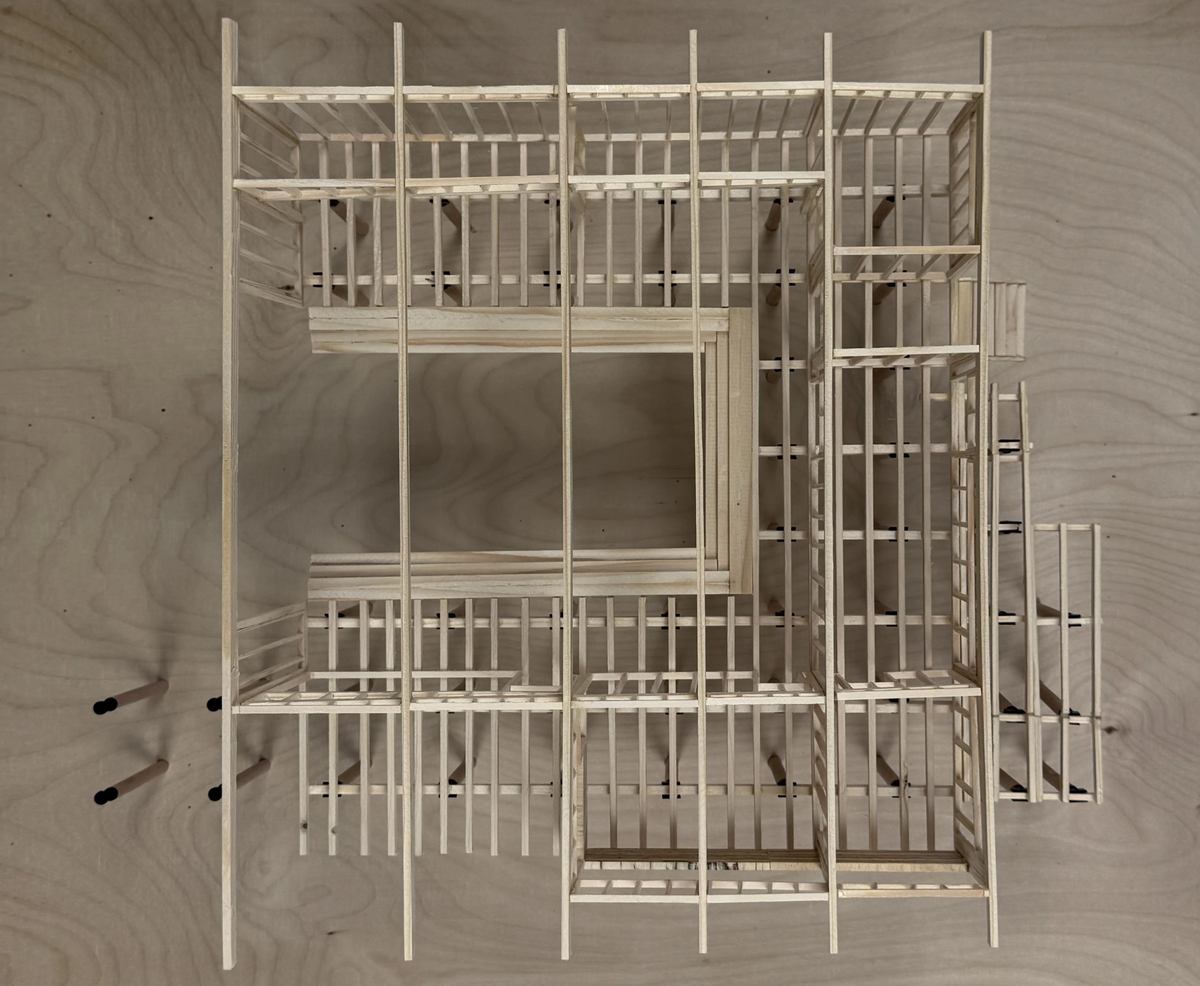
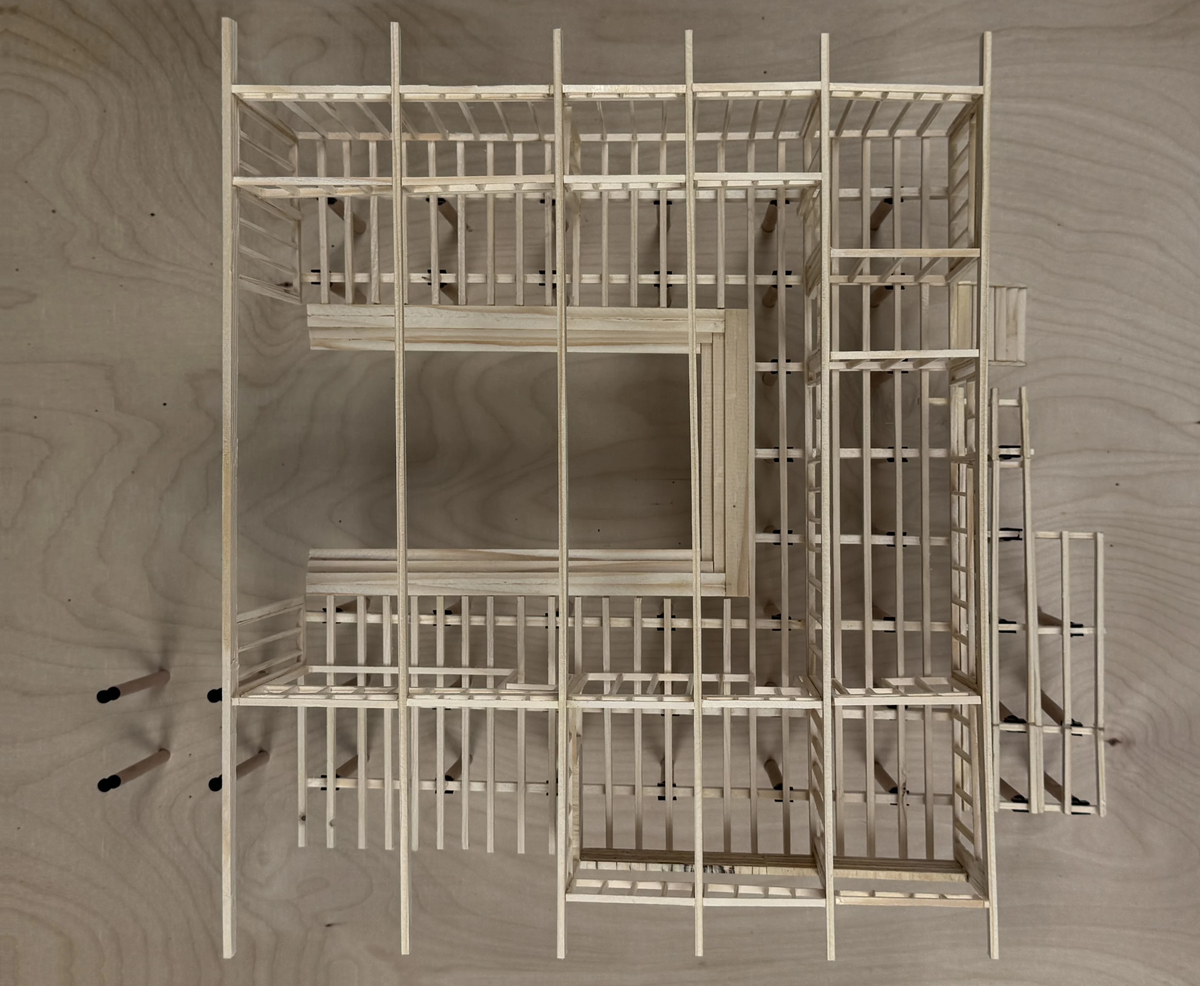
Lageplan gedreht, Modellfoto entzerrt, RomeRainRoom-Pläne aus dem Plakat, Profil angepasst

diff --git a/p/seepferdchen.html b/p/seepferdchen.html
@@ -6,7 +6,7 @@
 <title>Water Rescue Station “See Horse” · RISTL.DESIGNBUERO</title>
 <meta name="description" content="A timber rescue station on stilts, built to rise with the lake.">
 <link rel="icon" type="image/svg+xml" href="../favicon.svg">
-<link rel="stylesheet" href="../style.css?v=14">
+<link rel="stylesheet" href="../style.css?v=19">
 </head>
 <body>
 <header class="top">
@@ -24,37 +24,37 @@
   <p class="meta">Building construction, timber<br>with Franziska Grupe<br>2026</p>
 </section>
 <section class="images">
-<figure class="voll "><a class="zoom" href="../img/seepferdchen/cover-gross.webp"><img src="../img/seepferdchen/cover-1400.webp" srcset="../img/seepferdchen/cover-1400.webp 1400w, ../img/seepferdchen/cover-2800.webp 2800w" sizes="(max-width: 520px) 100vw, 86vw" width="1400" height="740" alt="Water Rescue Station “See Horse”" loading="eager" decoding="async"></a></figure>
+<figure class="voll "><a class="zoom" href="../img/seepferdchen/cover-gross.webp?v=19"><img src="../img/seepferdchen/cover-1400.webp?v=19" srcset="../img/seepferdchen/cover-1400.webp?v=19 1400w, ../img/seepferdchen/cover-2800.webp?v=19 2800w" sizes="(max-width: 520px) 100vw, 86vw" width="1400" height="740" alt="Water Rescue Station “See Horse”" loading="eager" decoding="async"></a></figure>
 </section>
 <section class="sek"><h2>Project</h2><div class="inhalt prosa"><p>The station stands in the shallow water on bored piles of reinforced concrete, so the floor stays dry when the lake rises. On top sits a glulam frame, closed with timber-frame walls.</p><p>The rooms form a U around the boat hall. Sliding doors connect the first-aid room to the hall and to the outside, barrier-free. Kitchenette and lounge open onto the terrace. The radio room looks out over the lido.</p><p>Outside, vertical cedar slats, charred (Shou Sugi Ban). Inside, the same rhythm in pale silver fir. Oak for the parquet, the terrace boards and the railings. The mono-pitch roof leaves its beams exposed.</p></div></section>
 <section class="sek"><h2>Visualisations</h2><div class="inhalt raster">
-<figure><a class="zoom" href="../img/seepferdchen/ost-gross.webp"><img src="../img/seepferdchen/ost-1400.webp" srcset="../img/seepferdchen/ost-1400.webp 1400w, ../img/seepferdchen/ost-2800.webp 2800w" sizes="(max-width: 520px) 100vw, (max-width: 900px) 46vw, 32vw" width="1400" height="665" alt="Water Rescue Station “See Horse”, visualisations, east elevation" loading="lazy" decoding="async"></a><figcaption>East elevation</figcaption></figure>
-<figure><a class="zoom" href="../img/seepferdchen/nord-gross.webp"><img src="../img/seepferdchen/nord-1400.webp" srcset="../img/seepferdchen/nord-1400.webp 1400w, ../img/seepferdchen/nord-2800.webp 2800w" sizes="(max-width: 520px) 100vw, (max-width: 900px) 46vw, 32vw" width="1400" height="665" alt="Water Rescue Station “See Horse”, visualisations, north elevation" loading="lazy" decoding="async"></a><figcaption>North elevation</figcaption></figure>
-<figure><a class="zoom" href="../img/seepferdchen/sued-gross.webp"><img src="../img/seepferdchen/sued-1400.webp" srcset="../img/seepferdchen/sued-1400.webp 1400w, ../img/seepferdchen/sued-2800.webp 2800w" sizes="(max-width: 520px) 100vw, (max-width: 900px) 46vw, 32vw" width="1400" height="665" alt="Water Rescue Station “See Horse”, visualisations, south elevation" loading="lazy" decoding="async"></a><figcaption>South elevation</figcaption></figure>
-<figure><a class="zoom" href="../img/seepferdchen/west-gross.webp"><img src="../img/seepferdchen/west-1400.webp" srcset="../img/seepferdchen/west-1400.webp 1400w, ../img/seepferdchen/west-2800.webp 2800w" sizes="(max-width: 520px) 100vw, (max-width: 900px) 46vw, 32vw" width="1400" height="665" alt="Water Rescue Station “See Horse”, visualisations, west elevation" loading="lazy" decoding="async"></a><figcaption>West elevation</figcaption></figure>
+<figure><a class="zoom" href="../img/seepferdchen/ost-gross.webp?v=19"><img src="../img/seepferdchen/ost-1400.webp?v=19" srcset="../img/seepferdchen/ost-1400.webp?v=19 1400w, ../img/seepferdchen/ost-2800.webp?v=19 2800w" sizes="(max-width: 520px) 100vw, (max-width: 900px) 46vw, 32vw" width="1400" height="665" alt="Water Rescue Station “See Horse”, visualisations, east elevation" loading="lazy" decoding="async"></a><figcaption>East elevation</figcaption></figure>
+<figure><a class="zoom" href="../img/seepferdchen/nord-gross.webp?v=19"><img src="../img/seepferdchen/nord-1400.webp?v=19" srcset="../img/seepferdchen/nord-1400.webp?v=19 1400w, ../img/seepferdchen/nord-2800.webp?v=19 2800w" sizes="(max-width: 520px) 100vw, (max-width: 900px) 46vw, 32vw" width="1400" height="665" alt="Water Rescue Station “See Horse”, visualisations, north elevation" loading="lazy" decoding="async"></a><figcaption>North elevation</figcaption></figure>
+<figure><a class="zoom" href="../img/seepferdchen/sued-gross.webp?v=19"><img src="../img/seepferdchen/sued-1400.webp?v=19" srcset="../img/seepferdchen/sued-1400.webp?v=19 1400w, ../img/seepferdchen/sued-2800.webp?v=19 2800w" sizes="(max-width: 520px) 100vw, (max-width: 900px) 46vw, 32vw" width="1400" height="665" alt="Water Rescue Station “See Horse”, visualisations, south elevation" loading="lazy" decoding="async"></a><figcaption>South elevation</figcaption></figure>
+<figure><a class="zoom" href="../img/seepferdchen/west-gross.webp?v=19"><img src="../img/seepferdchen/west-1400.webp?v=19" srcset="../img/seepferdchen/west-1400.webp?v=19 1400w, ../img/seepferdchen/west-2800.webp?v=19 2800w" sizes="(max-width: 520px) 100vw, (max-width: 900px) 46vw, 32vw" width="1400" height="665" alt="Water Rescue Station “See Horse”, visualisations, west elevation" loading="lazy" decoding="async"></a><figcaption>West elevation</figcaption></figure>
 </div></section>
 <section class="sek"><h2>Floor plans</h2><div class="inhalt raster massstab">
-<figure><a class="zoom" href="../img/seepferdchen/lageplan-gross.webp"><img src="../img/seepferdchen/lageplan-1400.webp" srcset="../img/seepferdchen/lageplan-1400.webp 1400w, ../img/seepferdchen/lageplan-2800.webp 2800w" sizes="(max-width: 520px) 100vw, (max-width: 900px) 46vw, 32vw" width="1400" height="957" alt="Water Rescue Station “See Horse”, floor plans, site plan" loading="lazy" decoding="async"></a><figcaption>Site plan</figcaption></figure>
-<figure class="mass" style="--w:43.72%"><a class="zoom" href="../img/seepferdchen/grundriss100-gross.webp"><img src="../img/seepferdchen/grundriss100-1400.webp" srcset="../img/seepferdchen/grundriss100-1400.webp 1400w, ../img/seepferdchen/grundriss100-2800.webp 2800w" sizes="(max-width: 520px) 100vw, (max-width: 900px) 46vw, 32vw" width="1400" height="851" alt="Water Rescue Station “See Horse”, floor plans, floor plan, 1:100" loading="lazy" decoding="async"></a><span class="leiste" aria-label="Scale bar, 5 m"><i style="width:8.41%"></i>5 m</span><figcaption>Floor plan, 1:100</figcaption></figure>
-<figure class="mass" style="--w:92.96%"><a class="zoom" href="../img/seepferdchen/grundriss50-gross.webp"><img src="../img/seepferdchen/grundriss50-1400.webp" srcset="../img/seepferdchen/grundriss50-1400.webp 1400w, ../img/seepferdchen/grundriss50-2800.webp 2800w" sizes="(max-width: 520px) 100vw, (max-width: 900px) 46vw, 32vw" width="1400" height="1036" alt="Water Rescue Station “See Horse”, floor plans, floor plan, 1:50" loading="lazy" decoding="async"></a><span class="leiste" aria-label="Scale bar, 5 m"><i style="width:16.83%"></i>5 m</span><figcaption>Floor plan, 1:50</figcaption></figure>
+<figure class="mass" style="--w:67.29%"><a class="zoom" href="../img/seepferdchen/lageplan-gross.webp?v=19"><img src="../img/seepferdchen/lageplan-1400.webp?v=19" srcset="../img/seepferdchen/lageplan-1400.webp?v=19 1400w, ../img/seepferdchen/lageplan-2800.webp?v=19 2800w" sizes="(max-width: 520px) 100vw, (max-width: 900px) 46vw, 32vw" width="1400" height="958" alt="Water Rescue Station “See Horse”, floor plans, site plan, 1:500" loading="lazy" decoding="async"></a><span class="leiste" aria-label="Scale bar, 50 m"><i style="width:16.83%"></i>50 m</span><figcaption>Site plan, 1:500</figcaption></figure>
+<figure class="mass" style="--w:43.72%"><a class="zoom" href="../img/seepferdchen/grundriss100-gross.webp?v=19"><img src="../img/seepferdchen/grundriss100-1400.webp?v=19" srcset="../img/seepferdchen/grundriss100-1400.webp?v=19 1400w, ../img/seepferdchen/grundriss100-2800.webp?v=19 2800w" sizes="(max-width: 520px) 100vw, (max-width: 900px) 46vw, 32vw" width="1400" height="851" alt="Water Rescue Station “See Horse”, floor plans, floor plan, 1:100" loading="lazy" decoding="async"></a><span class="leiste" aria-label="Scale bar, 5 m"><i style="width:8.41%"></i>5 m</span><figcaption>Floor plan, 1:100</figcaption></figure>
+<figure class="mass" style="--w:92.96%"><a class="zoom" href="../img/seepferdchen/grundriss50-gross.webp?v=19"><img src="../img/seepferdchen/grundriss50-1400.webp?v=19" srcset="../img/seepferdchen/grundriss50-1400.webp?v=19 1400w, ../img/seepferdchen/grundriss50-2800.webp?v=19 2800w" sizes="(max-width: 520px) 100vw, (max-width: 900px) 46vw, 32vw" width="1400" height="1036" alt="Water Rescue Station “See Horse”, floor plans, floor plan, 1:50" loading="lazy" decoding="async"></a><span class="leiste" aria-label="Scale bar, 5 m"><i style="width:16.83%"></i>5 m</span><figcaption>Floor plan, 1:50</figcaption></figure>
 </div></section>
 <section class="sek"><h2>Sections</h2><div class="inhalt raster massstab">
-<figure class="mass" style="--w:99.37%"><a class="zoom" href="../img/seepferdchen/schnitt-aa-gross.webp"><img src="../img/seepferdchen/schnitt-aa-1400.webp" srcset="../img/seepferdchen/schnitt-aa-1400.webp 1400w, ../img/seepferdchen/schnitt-aa-2800.webp 2800w" sizes="(max-width: 520px) 100vw, (max-width: 900px) 46vw, 32vw" width="1400" height="721" alt="Water Rescue Station “See Horse”, sections, section a–a, 1:50" loading="lazy" decoding="async"></a><span class="leiste" aria-label="Scale bar, 5 m"><i style="width:16.83%"></i>5 m</span><figcaption>Section A–A, 1:50</figcaption></figure>
-<figure class="mass" style="--w:100.00%"><a class="zoom" href="../img/seepferdchen/schnitt-bb-gross.webp"><img src="../img/seepferdchen/schnitt-bb-1400.webp" srcset="../img/seepferdchen/schnitt-bb-1400.webp 1400w, ../img/seepferdchen/schnitt-bb-2800.webp 2800w" sizes="(max-width: 520px) 100vw, (max-width: 900px) 46vw, 32vw" width="1400" height="650" alt="Water Rescue Station “See Horse”, sections, section b–b, 1:50" loading="lazy" decoding="async"></a><span class="leiste" aria-label="Scale bar, 5 m"><i style="width:16.83%"></i>5 m</span><figcaption>Section B–B, 1:50</figcaption></figure>
+<figure class="mass" style="--w:99.37%"><a class="zoom" href="../img/seepferdchen/schnitt-aa-gross.webp?v=19"><img src="../img/seepferdchen/schnitt-aa-1400.webp?v=19" srcset="../img/seepferdchen/schnitt-aa-1400.webp?v=19 1400w, ../img/seepferdchen/schnitt-aa-2800.webp?v=19 2800w" sizes="(max-width: 520px) 100vw, (max-width: 900px) 46vw, 32vw" width="1400" height="721" alt="Water Rescue Station “See Horse”, sections, section a–a, 1:50" loading="lazy" decoding="async"></a><span class="leiste" aria-label="Scale bar, 5 m"><i style="width:16.83%"></i>5 m</span><figcaption>Section A–A, 1:50</figcaption></figure>
+<figure class="mass" style="--w:100.00%"><a class="zoom" href="../img/seepferdchen/schnitt-bb-gross.webp?v=19"><img src="../img/seepferdchen/schnitt-bb-1400.webp?v=19" srcset="../img/seepferdchen/schnitt-bb-1400.webp?v=19 1400w, ../img/seepferdchen/schnitt-bb-2800.webp?v=19 2800w" sizes="(max-width: 520px) 100vw, (max-width: 900px) 46vw, 32vw" width="1400" height="650" alt="Water Rescue Station “See Horse”, sections, section b–b, 1:50" loading="lazy" decoding="async"></a><span class="leiste" aria-label="Scale bar, 5 m"><i style="width:16.83%"></i>5 m</span><figcaption>Section B–B, 1:50</figcaption></figure>
 </div></section>
 <section class="sek"><h2>Details</h2><div class="inhalt raster massstab">
-<figure class="mass" style="--w:83.40%"><a class="zoom" href="../img/seepferdchen/wand-gross.webp"><img src="../img/seepferdchen/wand-1400.webp" srcset="../img/seepferdchen/wand-1400.webp 1400w, ../img/seepferdchen/wand-2800.webp 2800w" sizes="(max-width: 520px) 100vw, (max-width: 900px) 46vw, 32vw" width="1400" height="1134" alt="Water Rescue Station “See Horse”, details, wall assembly, 1:20" loading="lazy" decoding="async"></a><span class="leiste" aria-label="Scale bar, 2 m"><i style="width:16.83%"></i>2 m</span><figcaption>Wall assembly, 1:20</figcaption></figure>
-<figure class="mass" style="--w:94.47%"><a class="zoom" href="../img/seepferdchen/treppe-gross.webp"><img src="../img/seepferdchen/treppe-1400.webp" srcset="../img/seepferdchen/treppe-1400.webp 1400w, ../img/seepferdchen/treppe-2800.webp 2800w" sizes="(max-width: 520px) 100vw, (max-width: 900px) 46vw, 32vw" width="1400" height="1413" alt="Water Rescue Station “See Horse”, details, stair detail, 1:5" loading="lazy" decoding="async"></a><span class="leiste" aria-label="Scale bar, 50 cm"><i style="width:16.83%"></i>50 cm</span><figcaption>Stair detail, 1:5</figcaption></figure>
+<figure class="mass" style="--w:83.40%"><a class="zoom" href="../img/seepferdchen/wand-gross.webp?v=19"><img src="../img/seepferdchen/wand-1400.webp?v=19" srcset="../img/seepferdchen/wand-1400.webp?v=19 1400w, ../img/seepferdchen/wand-2800.webp?v=19 2800w" sizes="(max-width: 520px) 100vw, (max-width: 900px) 46vw, 32vw" width="1400" height="1134" alt="Water Rescue Station “See Horse”, details, wall assembly, 1:20" loading="lazy" decoding="async"></a><span class="leiste" aria-label="Scale bar, 2 m"><i style="width:16.83%"></i>2 m</span><figcaption>Wall assembly, 1:20</figcaption></figure>
+<figure class="mass" style="--w:94.47%"><a class="zoom" href="../img/seepferdchen/treppe-gross.webp?v=19"><img src="../img/seepferdchen/treppe-1400.webp?v=19" srcset="../img/seepferdchen/treppe-1400.webp?v=19 1400w, ../img/seepferdchen/treppe-2800.webp?v=19 2800w" sizes="(max-width: 520px) 100vw, (max-width: 900px) 46vw, 32vw" width="1400" height="1413" alt="Water Rescue Station “See Horse”, details, stair detail, 1:5" loading="lazy" decoding="async"></a><span class="leiste" aria-label="Scale bar, 50 cm"><i style="width:16.83%"></i>50 cm</span><figcaption>Stair detail, 1:5</figcaption></figure>
 </div></section>
 <section class="sek"><h2>Structure</h2><div class="inhalt raster massstab">
-<figure class=breit><a class="zoom" href="../img/seepferdchen/tragwerk-gross.webp"><img src="../img/seepferdchen/tragwerk-1400.webp" srcset="../img/seepferdchen/tragwerk-1400.webp 1400w, ../img/seepferdchen/tragwerk-2800.webp 2800w" sizes="(max-width: 900px) 100vw, 64vw" width="1400" height="914" alt="Water Rescue Station “See Horse”, structure, structural system" loading="lazy" decoding="async"></a><figcaption>Structural system</figcaption></figure>
-<figure class="mass" style="--w:93.46%"><a class="zoom" href="../img/seepferdchen/konstruktion-gross.webp"><img src="../img/seepferdchen/konstruktion-1400.webp" srcset="../img/seepferdchen/konstruktion-1400.webp 1400w, ../img/seepferdchen/konstruktion-2800.webp 2800w" sizes="(max-width: 520px) 100vw, (max-width: 900px) 46vw, 32vw" width="1400" height="1016" alt="Water Rescue Station “See Horse”, structure, construction plan, 1:50" loading="lazy" decoding="async"></a><span class="leiste" aria-label="Scale bar, 5 m"><i style="width:16.83%"></i>5 m</span><figcaption>Construction plan, 1:50</figcaption></figure>
+<figure class=breit><a class="zoom" href="../img/seepferdchen/tragwerk-gross.webp?v=19"><img src="../img/seepferdchen/tragwerk-1400.webp?v=19" srcset="../img/seepferdchen/tragwerk-1400.webp?v=19 1400w, ../img/seepferdchen/tragwerk-2800.webp?v=19 2800w" sizes="(max-width: 900px) 100vw, 64vw" width="1400" height="914" alt="Water Rescue Station “See Horse”, structure, structural system" loading="lazy" decoding="async"></a><figcaption>Structural system</figcaption></figure>
+<figure class="mass" style="--w:93.46%"><a class="zoom" href="../img/seepferdchen/konstruktion-gross.webp?v=19"><img src="../img/seepferdchen/konstruktion-1400.webp?v=19" srcset="../img/seepferdchen/konstruktion-1400.webp?v=19 1400w, ../img/seepferdchen/konstruktion-2800.webp?v=19 2800w" sizes="(max-width: 520px) 100vw, (max-width: 900px) 46vw, 32vw" width="1400" height="1016" alt="Water Rescue Station “See Horse”, structure, construction plan, 1:50" loading="lazy" decoding="async"></a><span class="leiste" aria-label="Scale bar, 5 m"><i style="width:16.83%"></i>5 m</span><figcaption>Construction plan, 1:50</figcaption></figure>
 </div></section>
 <section class="sek"><h2>Model 1:50</h2><div class="inhalt raster hoch">
-<figure><a class="zoom" href="../img/seepferdchen/modell-1-gross.webp"><img src="../img/seepferdchen/modell-1-1400.webp" srcset="../img/seepferdchen/modell-1-1400.webp 1400w, ../img/seepferdchen/modell-1-2800.webp 2800w" sizes="(max-width: 520px) 100vw, (max-width: 900px) 46vw, 32vw" width="1400" height="1867" alt="Water Rescue Station “See Horse”, model 1:50" loading="lazy" decoding="async"></a></figure>
-<figure><a class="zoom" href="../img/seepferdchen/modell-2-gross.webp"><img src="../img/seepferdchen/modell-2-1400.webp" srcset="../img/seepferdchen/modell-2-1400.webp 1400w, ../img/seepferdchen/modell-2-2800.webp 2800w" sizes="(max-width: 520px) 100vw, (max-width: 900px) 46vw, 32vw" width="1400" height="1867" alt="Water Rescue Station “See Horse”, model 1:50" loading="lazy" decoding="async"></a></figure>
-<figure><a class="zoom" href="../img/seepferdchen/modell-3-gross.webp"><img src="../img/seepferdchen/modell-3-1400.webp" srcset="../img/seepferdchen/modell-3-1400.webp 1400w, ../img/seepferdchen/modell-3-2800.webp 2800w" sizes="(max-width: 520px) 100vw, (max-width: 900px) 46vw, 32vw" width="1400" height="1151" alt="Water Rescue Station “See Horse”, model 1:50" loading="lazy" decoding="async"></a></figure>
-<figure><a class="zoom" href="../img/seepferdchen/modell-4-gross.webp"><img src="../img/seepferdchen/modell-4-1400.webp" srcset="../img/seepferdchen/modell-4-1400.webp 1400w, ../img/seepferdchen/modell-4-2800.webp 2700w" sizes="(max-width: 520px) 100vw, (max-width: 900px) 46vw, 32vw" width="1400" height="2231" alt="Water Rescue Station “See Horse”, model 1:50" loading="lazy" decoding="async"></a></figure>
+<figure><a class="zoom" href="../img/seepferdchen/modell-1-gross.webp?v=19"><img src="../img/seepferdchen/modell-1-1400.webp?v=19" srcset="../img/seepferdchen/modell-1-1400.webp?v=19 1400w, ../img/seepferdchen/modell-1-2800.webp?v=19 2800w" sizes="(max-width: 520px) 100vw, (max-width: 900px) 46vw, 32vw" width="1400" height="1867" alt="Water Rescue Station “See Horse”, model 1:50" loading="lazy" decoding="async"></a></figure>
+<figure><a class="zoom" href="../img/seepferdchen/modell-2-gross.webp?v=19"><img src="../img/seepferdchen/modell-2-1400.webp?v=19" srcset="../img/seepferdchen/modell-2-1400.webp?v=19 1400w, ../img/seepferdchen/modell-2-2800.webp?v=19 2800w" sizes="(max-width: 520px) 100vw, (max-width: 900px) 46vw, 32vw" width="1400" height="1867" alt="Water Rescue Station “See Horse”, model 1:50" loading="lazy" decoding="async"></a></figure>
+<figure><a class="zoom" href="../img/seepferdchen/modell-3-gross.webp?v=19"><img src="../img/seepferdchen/modell-3-1400.webp?v=19" srcset="../img/seepferdchen/modell-3-1400.webp?v=19 1400w, ../img/seepferdchen/modell-3-2800.webp?v=19 2800w" sizes="(max-width: 520px) 100vw, (max-width: 900px) 46vw, 32vw" width="1400" height="1151" alt="Water Rescue Station “See Horse”, model 1:50" loading="lazy" decoding="async"></a></figure>
+<figure><a class="zoom" href="../img/seepferdchen/modell-4-gross.webp?v=19"><img src="../img/seepferdchen/modell-4-1400.webp?v=19" srcset="../img/seepferdchen/modell-4-1400.webp?v=19 1400w, ../img/seepferdchen/modell-4-2800.webp?v=19 2700w" sizes="(max-width: 520px) 100vw, (max-width: 900px) 46vw, 32vw" width="1400" height="2231" alt="Water Rescue Station “See Horse”, model 1:50" loading="lazy" decoding="async"></a></figure>
 </div></section>
 <a class="next" href="watercube.html"><span class="n">Next</span><span class="t">RomeRainRoom&nbsp;→</span></a>
 </main>

diff --git a/p/watercube.html b/p/watercube.html
@@ -6,7 +6,7 @@
 <title>RomeRainRoom · RISTL.DESIGNBUERO</title>
 <meta name="description" content="Watercube. A timber lattice, 7 × 7 × 7 m, that collects rain and cools the air around it.">
 <link rel="icon" type="image/svg+xml" href="../favicon.svg">
-<link rel="stylesheet" href="../style.css?v=14">
+<link rel="stylesheet" href="../style.css?v=19">
 </head>
 <body>
 <header class="top">
@@ -20,31 +20,31 @@
 <nav class="piktos oben" aria-label="Projects"><a class="pk" href="../p/seepferdchen.html" title="Water Rescue Station “See Horse”" aria-label="Water Rescue Station “See Horse”"><svg viewBox="4 4 24 24" aria-hidden="true"><path d="M4 9l24 3M8 9.5V21h16v-9.5M12 21v5M20 21v5M4 27c2-1.6 4-1.6 6 0s4 1.6 6 0 4-1.6 6 0 4 1.6 6 0"/></svg></a><a class="pk" href="../p/watercube.html" aria-current="page" title="RomeRainRoom" aria-label="RomeRainRoom"><svg viewBox="4 4 24 24" aria-hidden="true"><path d="M4 4h24v24H4zM10 4v24M16 4v24M22 4v24M4 10h24M4 16h24M4 22h24"/></svg></a><span class="pk off" title="Entwurf 3, soon"><svg viewBox="4 4 24 24" aria-hidden="true"><path d="M16 4.5c7 0 12 4.2 12 11S23 27.5 15 27.5 4 22.8 4 16 9 4.5 16 4.5z"/><circle cx="16" cy="16" r="4"/></svg></span><span class="pk off" title="BauKo Massiv, soon"><svg viewBox="4 4 24 24" aria-hidden="true"><path d="M4 4h24v24H4zM8 28v-5h5v-5h5v-5h5v-5h5"/></svg></span></nav>
 <section class="intro">
   <h1>RomeRainRoom</h1>
-  <p class="lead">Watercube. A timber lattice, 7 × 7 × 7 m, that collects rain and cools the air around it.</p>
+  <p class="lead">Watercube.<br>A timber lattice, 7 × 7 × 7 m,<br>that collects rain and cools the air around it.</p>
   <p class="meta">Entwurf Raum, competition entry<br>with David Schüler<br>2026</p>
 </section>
 <section class="images">
-<figure class="voll schmal"><a class="zoom" href="../img/watercube/cover-gross.webp"><img src="../img/watercube/cover-1400.webp" srcset="../img/watercube/cover-1400.webp 1400w, ../img/watercube/cover-2800.webp 2800w" sizes="(max-width: 520px) 100vw, 86vw" width="1400" height="1436" alt="RomeRainRoom" loading="eager" decoding="async"></a></figure>
+<figure class="voll schmal"><a class="zoom" href="../img/watercube/cover-gross.webp?v=19"><img src="../img/watercube/cover-1400.webp?v=19" srcset="../img/watercube/cover-1400.webp?v=19 1400w, ../img/watercube/cover-2800.webp?v=19 2800w" sizes="(max-width: 520px) 100vw, 86vw" width="1400" height="1436" alt="RomeRainRoom" loading="eager" decoding="async"></a></figure>
 </section>
 <section class="sek"><h2>Project</h2><div class="inhalt prosa"><p>Watercube is a pavilion of 7 × 7 × 7 m, built from one repeating element: a timber lattice on a 50 × 50 cm grid. There is no facade, no wall and no roof. The frame is structure, circulation and seating at once. Visitors move through it on two levels connected by stairs.</p><p>Translucent red tanks sit inside the lattice and hold up to 6,500 litres of rainwater. Some stay open, so the water evaporates and cools the air in Rome’s hot summers. Others are within reach, for passers-by to cool off. When the tanks are full, the overflow runs to the nearby trees.</p><p>The roof collects the rain. After sunset the lit tanks turn the pavilion into a lantern.</p></div></section>
 <section class="sek"><h2>Visualisations</h2><div class="inhalt raster">
-<figure><a class="zoom" href="../img/watercube/innen-nacht-gross.webp"><img src="../img/watercube/innen-nacht-1400.webp" srcset="../img/watercube/innen-nacht-1400.webp 1400w, ../img/watercube/innen-nacht-2800.webp 2800w" sizes="(max-width: 520px) 100vw, (max-width: 900px) 46vw, 32vw" width="1400" height="977" alt="RomeRainRoom, visualisations, interior at night" loading="lazy" decoding="async"></a><figcaption>Interior at night</figcaption></figure>
-<figure><a class="zoom" href="../img/watercube/innen-tag-gross.webp"><img src="../img/watercube/innen-tag-1400.webp" srcset="../img/watercube/innen-tag-1400.webp 1400w, ../img/watercube/innen-tag-2800.webp 2800w" sizes="(max-width: 520px) 100vw, (max-width: 900px) 46vw, 32vw" width="1400" height="971" alt="RomeRainRoom, visualisations, interior by day" loading="lazy" decoding="async"></a><figcaption>Interior by day</figcaption></figure>
+<figure><a class="zoom" href="../img/watercube/innen-nacht-gross.webp?v=19"><img src="../img/watercube/innen-nacht-1400.webp?v=19" srcset="../img/watercube/innen-nacht-1400.webp?v=19 1400w, ../img/watercube/innen-nacht-2800.webp?v=19 2800w" sizes="(max-width: 520px) 100vw, (max-width: 900px) 46vw, 32vw" width="1400" height="977" alt="RomeRainRoom, visualisations, interior at night" loading="lazy" decoding="async"></a><figcaption>Interior at night</figcaption></figure>
+<figure><a class="zoom" href="../img/watercube/innen-tag-gross.webp?v=19"><img src="../img/watercube/innen-tag-1400.webp?v=19" srcset="../img/watercube/innen-tag-1400.webp?v=19 1400w, ../img/watercube/innen-tag-2800.webp?v=19 2800w" sizes="(max-width: 520px) 100vw, (max-width: 900px) 46vw, 32vw" width="1400" height="971" alt="RomeRainRoom, visualisations, interior by day" loading="lazy" decoding="async"></a><figcaption>Interior by day</figcaption></figure>
 </div></section>
 <section class="sek"><h2>Floor plans</h2><div class="inhalt raster massstab">
-<figure class=breit><a class="zoom" href="../img/watercube/lage-gross.webp"><img src="../img/watercube/lage-1400.webp" srcset="../img/watercube/lage-1400.webp 1400w, ../img/watercube/lage-2800.webp 2800w" sizes="(max-width: 900px) 100vw, 64vw" width="1400" height="989" alt="RomeRainRoom, floor plans, site plan" loading="lazy" decoding="async"></a><figcaption>Site plan</figcaption></figure>
-<figure class="mass" style="--w:100.00%"><a class="zoom" href="../img/watercube/ebene-0-gross.webp"><img src="../img/watercube/ebene-0-1400.webp" srcset="../img/watercube/ebene-0-1400.webp 1400w, ../img/watercube/ebene-0-2800.webp 1800w" sizes="(max-width: 520px) 100vw, (max-width: 900px) 46vw, 32vw" width="1400" height="1386" alt="RomeRainRoom, floor plans, level 0, 1:75" loading="lazy" decoding="async"></a><span class="leiste" aria-label="Scale bar, 2 m"><i style="width:22.45%"></i>2 m</span><figcaption>Level 0, 1:75</figcaption></figure>
-<figure class="mass" style="--w:100.00%"><a class="zoom" href="../img/watercube/ebene-1-gross.webp"><img src="../img/watercube/ebene-1-1400.webp" srcset="../img/watercube/ebene-1-1400.webp 1400w, ../img/watercube/ebene-1-2800.webp 1800w" sizes="(max-width: 520px) 100vw, (max-width: 900px) 46vw, 32vw" width="1400" height="1386" alt="RomeRainRoom, floor plans, level 1, 1:75" loading="lazy" decoding="async"></a><span class="leiste" aria-label="Scale bar, 2 m"><i style="width:22.45%"></i>2 m</span><figcaption>Level 1, 1:75</figcaption></figure>
+<figure class=breit><a class="zoom" href="../img/watercube/lage-gross.webp?v=19"><img src="../img/watercube/lage-1400.webp?v=19" srcset="../img/watercube/lage-1400.webp?v=19 1400w, ../img/watercube/lage-2800.webp?v=19 2800w" sizes="(max-width: 900px) 100vw, 64vw" width="1400" height="989" alt="RomeRainRoom, floor plans, site plan" loading="lazy" decoding="async"></a><figcaption>Site plan</figcaption></figure>
+<figure class="mass" style="--w:99.94%"><a class="zoom" href="../img/watercube/ebene-0-gross.webp?v=19"><img src="../img/watercube/ebene-0-1400.webp?v=19" srcset="../img/watercube/ebene-0-1400.webp?v=19 1400w, ../img/watercube/ebene-0-2800.webp?v=19 1800w" sizes="(max-width: 520px) 100vw, (max-width: 900px) 46vw, 32vw" width="1400" height="1408" alt="RomeRainRoom, floor plans, level 0, 1:75" loading="lazy" decoding="async"></a><span class="leiste" aria-label="Scale bar, 2 m"><i style="width:22.43%"></i>2 m</span><figcaption>Level 0, 1:75</figcaption></figure>
+<figure class="mass" style="--w:100.00%"><a class="zoom" href="../img/watercube/ebene-1-gross.webp?v=19"><img src="../img/watercube/ebene-1-1400.webp?v=19" srcset="../img/watercube/ebene-1-1400.webp?v=19 1400w, ../img/watercube/ebene-1-2800.webp?v=19 1801w" sizes="(max-width: 520px) 100vw, (max-width: 900px) 46vw, 32vw" width="1400" height="1407" alt="RomeRainRoom, floor plans, level 1, 1:75" loading="lazy" decoding="async"></a><span class="leiste" aria-label="Scale bar, 2 m"><i style="width:22.43%"></i>2 m</span><figcaption>Level 1, 1:75</figcaption></figure>
 </div></section>
 <section class="sek"><h2>Sections</h2><div class="inhalt raster massstab">
-<figure class="mass" style="--w:100.00%"><a class="zoom" href="../img/watercube/schnitt-aa-gross.webp"><img src="../img/watercube/schnitt-aa-1400.webp" srcset="../img/watercube/schnitt-aa-1400.webp 1400w, ../img/watercube/schnitt-aa-2800.webp 1800w" sizes="(max-width: 520px) 100vw, (max-width: 900px) 46vw, 32vw" width="1400" height="1386" alt="RomeRainRoom, sections, section a–a, 1:75" loading="lazy" decoding="async"></a><span class="leiste" aria-label="Scale bar, 2 m"><i style="width:22.45%"></i>2 m</span><figcaption>Section A–A, 1:75</figcaption></figure>
-<figure class="mass" style="--w:100.00%"><a class="zoom" href="../img/watercube/schnitt-bb-gross.webp"><img src="../img/watercube/schnitt-bb-1400.webp" srcset="../img/watercube/schnitt-bb-1400.webp 1400w, ../img/watercube/schnitt-bb-2800.webp 1800w" sizes="(max-width: 520px) 100vw, (max-width: 900px) 46vw, 32vw" width="1400" height="1386" alt="RomeRainRoom, sections, section b–b, 1:75" loading="lazy" decoding="async"></a><span class="leiste" aria-label="Scale bar, 2 m"><i style="width:22.45%"></i>2 m</span><figcaption>Section B–B, 1:75</figcaption></figure>
+<figure class="mass" style="--w:99.94%"><a class="zoom" href="../img/watercube/schnitt-aa-gross.webp?v=19"><img src="../img/watercube/schnitt-aa-1400.webp?v=19" srcset="../img/watercube/schnitt-aa-1400.webp?v=19 1400w, ../img/watercube/schnitt-aa-2800.webp?v=19 1800w" sizes="(max-width: 520px) 100vw, (max-width: 900px) 46vw, 32vw" width="1400" height="1408" alt="RomeRainRoom, sections, section a–a, 1:75" loading="lazy" decoding="async"></a><span class="leiste" aria-label="Scale bar, 2 m"><i style="width:22.43%"></i>2 m</span><figcaption>Section A–A, 1:75</figcaption></figure>
+<figure class="mass" style="--w:99.94%"><a class="zoom" href="../img/watercube/schnitt-bb-gross.webp?v=19"><img src="../img/watercube/schnitt-bb-1400.webp?v=19" srcset="../img/watercube/schnitt-bb-1400.webp?v=19 1400w, ../img/watercube/schnitt-bb-2800.webp?v=19 1800w" sizes="(max-width: 520px) 100vw, (max-width: 900px) 46vw, 32vw" width="1400" height="1408" alt="RomeRainRoom, sections, section b–b, 1:75" loading="lazy" decoding="async"></a><span class="leiste" aria-label="Scale bar, 2 m"><i style="width:22.43%"></i>2 m</span><figcaption>Section B–B, 1:75</figcaption></figure>
 </div></section>
 <section class="sek"><h2>Details</h2><div class="inhalt raster frei">
-<figure><a class="zoom" href="../img/watercube/verbindung-gross.webp"><img src="../img/watercube/verbindung-1400.webp" srcset="../img/watercube/verbindung-1400.webp 960w, ../img/watercube/verbindung-2800.webp 960w" sizes="(max-width: 520px) 100vw, (max-width: 900px) 46vw, 32vw" width="960" height="2384" alt="RomeRainRoom, details, construction detail" loading="lazy" decoding="async"></a><figcaption>Construction detail</figcaption></figure>
+<figure><a class="zoom" href="../img/watercube/verbindung-gross.webp?v=19"><img src="../img/watercube/verbindung-1400.webp?v=19" srcset="../img/watercube/verbindung-1400.webp?v=19 960w, ../img/watercube/verbindung-2800.webp?v=19 960w" sizes="(max-width: 520px) 100vw, (max-width: 900px) 46vw, 32vw" width="960" height="2384" alt="RomeRainRoom, details, construction detail" loading="lazy" decoding="async"></a><figcaption>Construction detail</figcaption></figure>
 </div></section>
 <section class="sek"><h2>Structure</h2><div class="inhalt raster">
-<figure class=breit><a class="zoom" href="../img/watercube/aufbau-gross.webp"><img src="../img/watercube/aufbau-1400.webp" srcset="../img/watercube/aufbau-1400.webp 1400w, ../img/watercube/aufbau-2800.webp 2800w" sizes="(max-width: 900px) 100vw, 64vw" width="1400" height="877" alt="RomeRainRoom, structure, isometric view and rainwater diagram" loading="lazy" decoding="async"></a><figcaption>Isometric view and rainwater diagram</figcaption></figure>
+<figure class=breit><a class="zoom" href="../img/watercube/aufbau-gross.webp?v=19"><img src="../img/watercube/aufbau-1400.webp?v=19" srcset="../img/watercube/aufbau-1400.webp?v=19 1400w, ../img/watercube/aufbau-2800.webp?v=19 2800w" sizes="(max-width: 900px) 100vw, 64vw" width="1400" height="877" alt="RomeRainRoom, structure, isometric view and rainwater diagram" loading="lazy" decoding="async"></a><figcaption>Isometric view and rainwater diagram</figcaption></figure>
 </div></section>
 <a class="next" href="seepferdchen.html"><span class="n">Next</span><span class="t">Water Rescue Station “See Horse”&nbsp;→</span></a>
 </main>

diff --git a/about.html b/about.html
@@ -6,7 +6,7 @@
 <title>About · RISTL.DESIGNBUERO</title>
 <meta name="description" content="Pascal Ristl, trained cabinetmaker and interior architecture student in München.">
 <link rel="icon" type="image/svg+xml" href="favicon.svg">
-<link rel="stylesheet" href="style.css?v=14">
+<link rel="stylesheet" href="style.css?v=19">
 </head>
 <body>
 <header class="top">
@@ -19,14 +19,14 @@
 <main>
 <section class="intro">
   <h1>Pascal Ristl</h1>
-  <p class="lead">Trained cabinetmaker, studying interior architecture at TH Rosenheim.</p>
+  <p class="lead">Trained cabinetmaker,<br>studying interior architecture at TH Rosenheim.</p>
   <p class="meta">Based in München<br><a href="mailto:ristlp@ristldesignbuero.com">ristlp@ristldesignbuero.com</a><br><a href="https://www.instagram.com/ristl.designbuero/" target="_blank" rel="noopener">@ristl.designbuero</a></p>
 </section>
 <section class="images">
-<figure class="voll portrait"><a class="zoom" href="img/about/portrait-gross.webp"><img src="img/about/portrait-1400.webp" srcset="img/about/portrait-1400.webp 1200w, img/about/portrait-2800.webp 1200w" sizes="(max-width: 520px) 100vw, 36vw" width="1200" height="1600" alt="Pascal Ristl" loading="eager" decoding="async"></a></figure>
+<figure class="voll portrait"><a class="zoom" href="img/about/portrait-gross.webp?v=19"><img src="img/about/portrait-1400.webp?v=19" srcset="img/about/portrait-1400.webp?v=19 1200w, img/about/portrait-2800.webp?v=19 1200w" sizes="(max-width: 520px) 100vw, 36vw" width="1200" height="1600" alt="Pascal Ristl" loading="eager" decoding="async"></a></figure>
 </section>
 <section class="sek"><h2>Profile</h2><div class="inhalt prosa"><p>I’m Pascal, a trained cabinetmaker in the middle of an interior architecture degree. My apprenticeship taught me to work methodically, from the first site measurement to the finished piece: understanding the material, designing the joints, thinking every step through in the right order. That closeness to material and craft still shapes how I approach any design task.</p><p>Over time I realised that building and executing wasn’t enough for me. I want to design.</p><p>Since the winter semester 2025 I have been studying interior architecture at TH Rosenheim. The degree takes me beyond wood: other materials, the basics of building construction and the tools of design, from CAD and 3D modelling to colour, typography, composition and presentation.</p><p>The two perspectives feed each other. Knowing how something is built changes how you design it: more precise, truer to the material, closer to execution. In return, what I learn at university lets me develop, test and communicate ideas before the first board is cut. This portfolio documents that path, from detail to space.</p></div></section>
-<section class="sek"><h2>Background</h2><dl class="inhalt weg"><div><dt>since 2025</dt><dd>B.A. Interior Architecture, TH Rosenheim</dd></div><div><dt>2024–2025</dt><dd>Cabinetmaker, SFI Baldinger / Domani. Furniture and interior fit-out, fabrication and installation</dd></div><div><dt>2021–2024</dt><dd>Cabinetmaker apprenticeship (journeyman’s certificate), SFI Baldinger / Domani</dd></div><div><dt>2023–2024</dt><dd>Advanced training, CAD &amp; CNC specialist</dd></div><div><dt>2022–2024</dt><dd>Management assistant in crafts (master craftsman exam, part 3), HWK Freiburg</dd></div><div><dt>2014–2024</dt><dd>Competitive volleyball, most recently 1. Bundesliga</dd></div></dl></section>
+<section class="sek"><h2>Background</h2><dl class="inhalt weg"><div><dt>since 2025</dt><dd>B.A. Interior Architecture, TH Rosenheim</dd></div><div><dt>2024–2025</dt><dd>Cabinetmaker, SFI Baldinger / Domani. Furniture and interior fit-out, fabrication and installation</dd></div><div><dt>2023–2024</dt><dd>Advanced training, CAD &amp; CNC specialist</dd></div><div><dt>2022–2024</dt><dd>Management assistant in crafts (master craftsman exam, part 3), HWK Freiburg</dd></div><div><dt>2021–2024</dt><dd>Cabinetmaker apprenticeship (journeyman’s certificate), SFI Baldinger / Domani</dd></div><div><dt>2014–2024</dt><dd>Competitive volleyball, most recently 1. Bundesliga</dd></div></dl></section>
 <section class="sek"><h2>Contact</h2><div class="inhalt prosa kontakt"><p><a href="mailto:ristlp@ristldesignbuero.com">ristlp@ristldesignbuero.com</a><br><a href="https://www.instagram.com/ristl.designbuero/" target="_blank" rel="noopener">Instagram, @ristl.designbuero</a></p></div></section>
 </main>
 <footer class="bottom">

diff --git a/style.css b/style.css
@@ -91,13 +91,13 @@ a.pk:hover,.pk[aria-current]{color:var(--ink)}
 figcaption{margin-top:.8em;font-size:var(--klein);line-height:1.4;letter-spacing:.012em;color:var(--soft)}
 .zoom{display:block;cursor:zoom-in}
 .raster figure:not(.breit) .zoom{aspect-ratio:3/2}             /* gleiche Bildhoehe, Bildzeilen auf einer Linie */
-.raster figure:not(.breit) .zoom img{width:100%;height:100%;object-fit:contain}
+.raster figure:not(.breit) .zoom img{width:100%;height:100%;object-fit:contain;object-position:left bottom}   /* Bild buendig ueber seiner Bildzeile */
 .raster.fuell figure:not(.breit) .zoom{aspect-ratio:4/3}
-.raster.fuell figure:not(.breit) .zoom img{object-fit:cover}
+.raster.fuell figure:not(.breit) .zoom img{object-fit:cover;object-position:center}
 .raster.quadrat figure:not(.breit) .zoom{aspect-ratio:1}
 /* einzelnes Hochformat: nie hoeher als der Bildschirm */
 .raster.frei figure:not(.breit) .zoom{aspect-ratio:auto;width:max-content;max-width:100%}
-.raster.frei figure:not(.breit) .zoom img{width:auto;height:auto;max-width:100%;max-height:76vh;max-height:76svh}
+.raster.frei figure:not(.breit) .zoom img{width:auto;height:auto;max-width:100%;max-height:min(56vh,460px);max-height:min(56svh,460px)}
 /* massstabstreu: jede Zeichnung in ihrer Papiergroesse relativ zu den anderen, Boden auf einer Linie */
 .raster.massstab{align-items:end}
 .raster.massstab figure{min-width:0}
@@ -114,7 +114,7 @@ figcaption{margin-top:.8em;font-size:var(--klein);line-height:1.4;letter-spacing
 .kontakt p{line-height:1.9}
 .images .schmal{width:calc((100% - 11 * var(--spalt)) / 12 * 7 + 6 * var(--spalt));margin-left:auto}
 .raster.hoch figure:not(.breit) .zoom{aspect-ratio:4/5}
-.raster.hoch figure:not(.breit) .zoom img{object-fit:cover}
+.raster.hoch figure:not(.breit) .zoom img{object-fit:cover;object-position:center}
 .lupe{position:fixed;inset:0;z-index:10;background:var(--paper);display:grid;place-items:center;
   padding:clamp(16px,3vw,48px);cursor:zoom-out;animation:auf .25s ease both}
 .lupe img{width:auto;height:auto;max-width:100%;max-height:100%;object-fit:contain;min-height:0}

diff --git a/index.html b/index.html
@@ -6,7 +6,7 @@
 <title>RISTL.DESIGNBUERO · Pascal Ristl</title>
 <meta name="description" content="Portfolio of Pascal Ristl. Interior architecture and design, München.">
 <link rel="icon" type="image/svg+xml" href="favicon.svg">
-<link rel="stylesheet" href="style.css?v=14">
+<link rel="stylesheet" href="style.css?v=19">
 </head>
 <body class="home">
 <header class="top">

diff --git a/404.html b/404.html
@@ -7,7 +7,7 @@
 <title>Not found · RISTL.DESIGNBUERO</title>
 <meta name="description" content="Page not found.">
 <link rel="icon" type="image/svg+xml" href="/favicon.svg">
-<link rel="stylesheet" href="/style.css?v=14">
+<link rel="stylesheet" href="/style.css?v=19">
 </head>
 <body>
 <header class="top">

diff --git a/datenschutz.html b/datenschutz.html
@@ -6,7 +6,7 @@
 <title>Datenschutz · RISTL.DESIGNBUERO</title>
 <meta name="description" content="Datenschutz">
 <link rel="icon" type="image/svg+xml" href="favicon.svg">
-<link rel="stylesheet" href="style.css?v=14">
+<link rel="stylesheet" href="style.css?v=19">
 </head>
 <body>
 <header class="top">

diff --git a/impressum.html b/impressum.html
@@ -6,7 +6,7 @@
 <title>Impressum · RISTL.DESIGNBUERO</title>
 <meta name="description" content="Impressum">
 <link rel="icon" type="image/svg+xml" href="favicon.svg">
-<link rel="stylesheet" href="style.css?v=14">
+<link rel="stylesheet" href="style.css?v=19">
 </head>
 <body>
 <header class="top">
